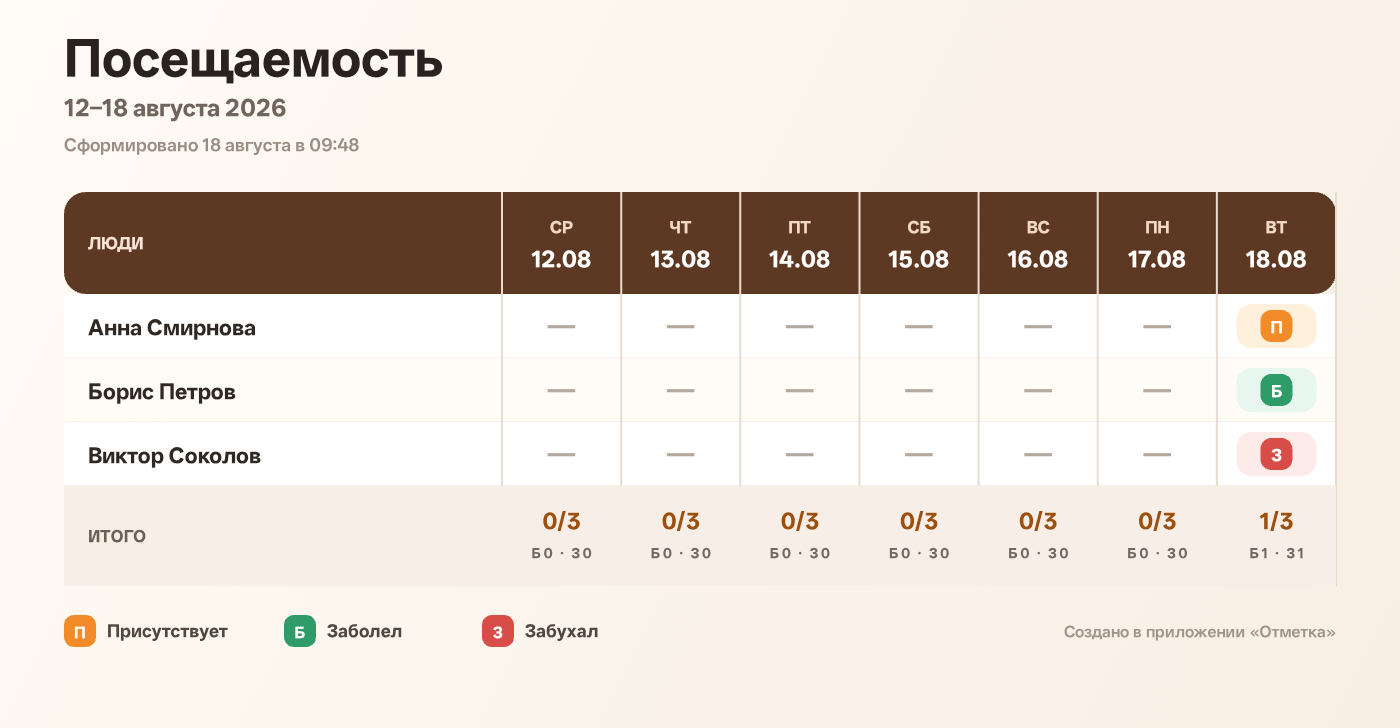
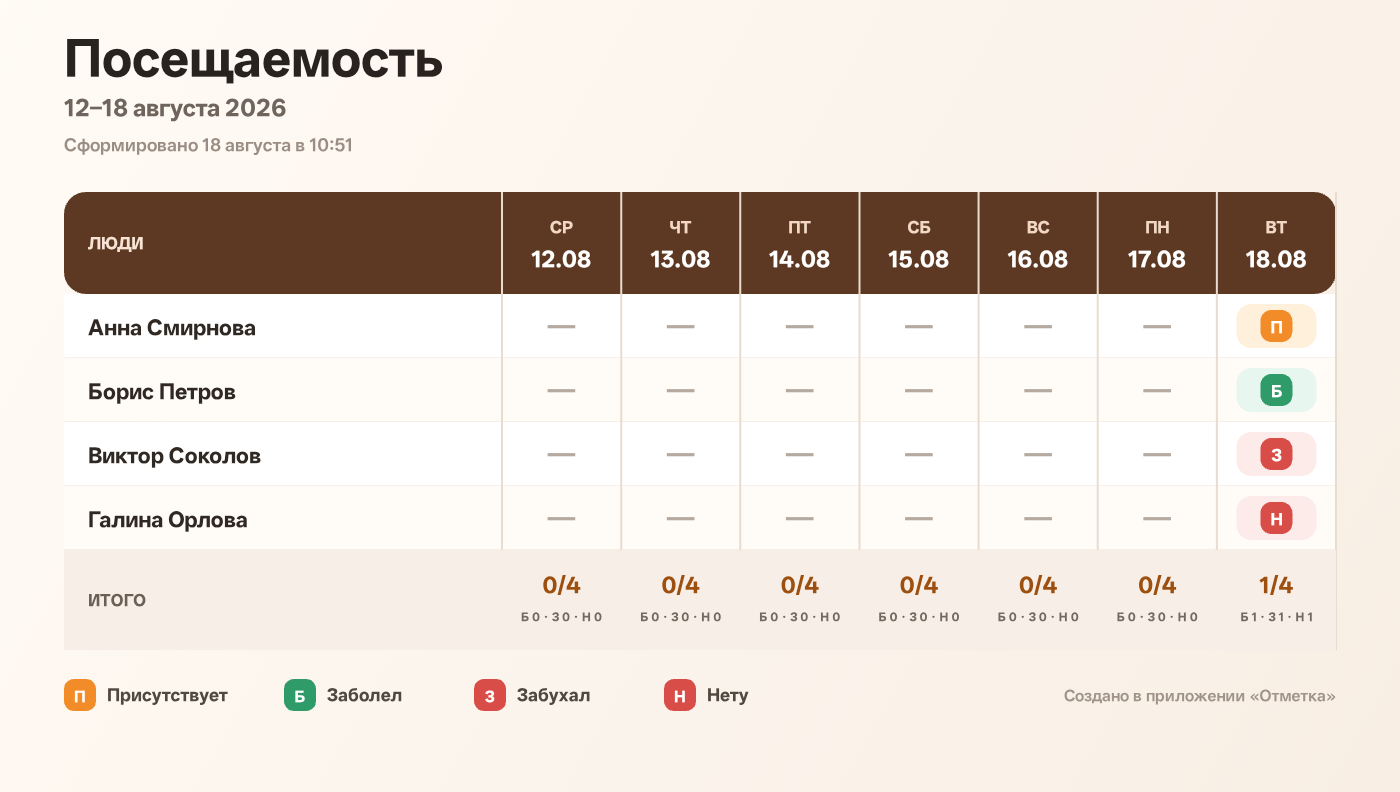
Refresh installed PWA automatically on updates

diff --git a/src/app.js b/src/app.js
@@ -86,6 +86,7 @@ let toastTimer = null;
 let toastActionHandler = null;
 let offlineReady = false;
 let deferredInstallPrompt = null;
+let activeServiceWorkerRegistration = null;
 
 const isStandalone = () =>
   window.matchMedia?.("(display-mode: standalone)").matches || navigator.standalone === true;
@@ -679,6 +680,11 @@ function updateReadiness() {
   elements.readinessText.textContent = "Готовим приложение для работы офлайн…";
 }
 
+function requestServiceWorkerUpdate() {
+  if (!navigator.onLine || !activeServiceWorkerRegistration) return;
+  void activeServiceWorkerRegistration.update().catch(() => undefined);
+}
+
 function verifyServiceWorkerCache(registration) {
   return new Promise((resolve) => {
     const worker = registration.active ?? registration.waiting ?? registration.installing;
@@ -706,8 +712,21 @@ async function initializeServiceWorker() {
   }
 
   try {
-    const registration = await navigator.serviceWorker.register("./sw.js", { scope: "./" });
+    const hadController = Boolean(navigator.serviceWorker.controller);
+    let reloadingForUpdate = false;
+    navigator.serviceWorker.addEventListener("controllerchange", () => {
+      if (!hadController || reloadingForUpdate) return;
+      reloadingForUpdate = true;
+      window.location.reload();
+    }, { once: true });
+
+    const registration = await navigator.serviceWorker.register("./sw.js", {
+      scope: "./",
+      updateViaCache: "none"
+    });
+    activeServiceWorkerRegistration = registration;
     await navigator.serviceWorker.ready;
+    requestServiceWorkerUpdate();
     offlineReady = await verifyServiceWorkerCache(registration);
     updateReadiness();
     if (offlineReady && isStandalone()) void requestPersistentStorage();
@@ -811,10 +830,16 @@ function bindEvents() {
     });
   });
 
-  window.addEventListener("online", updateReadiness);
+  window.addEventListener("online", () => {
+    updateReadiness();
+    requestServiceWorkerUpdate();
+  });
   window.addEventListener("offline", updateReadiness);
   document.addEventListener("visibilitychange", () => {
-    if (document.visibilityState === "visible") checkForNewDay();
+    if (document.visibilityState === "visible") {
+      checkForNewDay();
+      requestServiceWorkerUpdate();
+    }
   });
 }
 

diff --git a/sw.js b/sw.js
@@ -1,5 +1,5 @@
 const CACHE_PREFIX = "otmetka-attendance-pwa-";
-const CACHE_NAME = `${CACHE_PREFIX}shell-v2`;
+const CACHE_NAME = `${CACHE_PREFIX}shell-v3`;
 const APP_SHELL = [
   "./",
   "./index.html",
